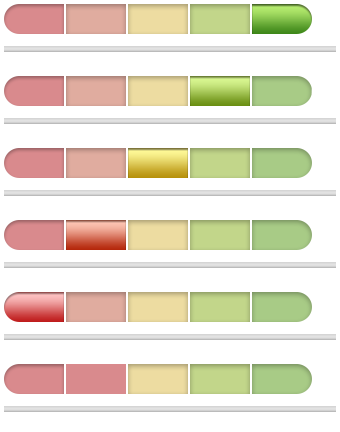
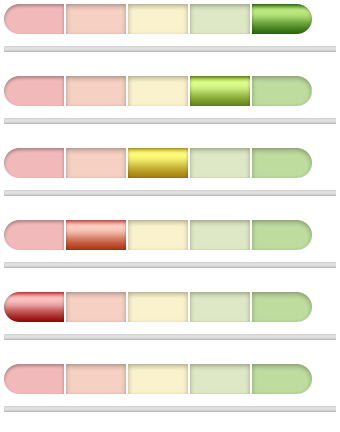
Updated appearance of rating bars: new image + dynamic hover

diff --git a/ratingwindow2.js b/ratingwindow2.js
@@ -311,6 +311,8 @@ $.extend(wot, { ratingwindow: {
 				var position = 100 * (wot.ratingwindow.slider_shift + e.clientX - slider.offset().left) /
                     wot.ratingwindow.sliderwidth;
 
+                if (e.type == "mouseleave") position = noopinion_threshold + 1;
+
                 /* sanitize the rating value */
                 if (position < 0) {
                     position = 0;
@@ -1144,14 +1146,15 @@ $.extend(wot, { ratingwindow: {
             $(".wot-rating-stack").bind({
                 mousedown: _this.rate_control.on_mousedown,
                 mouseup: _this.rate_control.on_mouseup,
-                mousemove: _this.rate_control.on_mousemove
+                mousemove: _this.rate_control.on_mousemove,
+                mouseleave: _this.rate_control.on_mousemove
             });
         },
 
         on_mousemove: function (e) {
             var _rw = wot.ratingwindow;
 
-            if (_rw.state.down == -1) return;
+//            if (_rw.state.down == -1) return;
             var c = $(this).attr("component");
             var t = _rw.getrating(e, this);
 
@@ -1254,7 +1257,7 @@ $.extend(wot, { ratingwindow: {
                 } else if (state.name != null && state.t >= 0) {
                     /* temporary indicator position */
                     rep = wot.getlevel(wot.reputationlevels, state.t).name;
-                    elems.indicator.css("left", (state.t * _rw.sliderwidth / 100).toFixed() + "px");
+//                    elems.indicator.css("left", (state.t * _rw.sliderwidth / 100).toFixed() + "px");
                     elems.stack.removeClass("testimony").addClass("hover");
 
                 } else {
@@ -1267,8 +1270,10 @@ $.extend(wot, { ratingwindow: {
 
                 if (rep) {
                     elems.stack.attr("r", rep);
+                    if (state.down != -1) {
                     elems.indicator.attr("r", rep);
                     elems.data.attr("r", rep);
+                }
                 }
 
                 var helptext = wot.get_level_label(item.name, rep, true);

diff --git a/skin/ratingwindow2.css b/skin/ratingwindow2.css
@@ -751,24 +751,24 @@ body {
     cursor: default;
 }
 
-.wot-rating-stack.testimony[r="r1"] .wot-rating-slider {
+.wot-rating-stack[r="r1"] .wot-rating-slider {
     background-position: 0 -144px;
 }
 
-.wot-rating-stack.testimony[r="r2"] .wot-rating-slider {
+.wot-rating-stack[r="r2"] .wot-rating-slider {
     background-position: 0 -108px;
 }
 
-.wot-rating-stack.testimony[r="r3"] .wot-rating-slider {
+.wot-rating-stack[r="r3"] .wot-rating-slider {
     background-position: 0 -72px;
 }
 
-.wot-rating-stack.testimony[r="r4"] .wot-rating-slider {
+.wot-rating-stack[r="r4"] .wot-rating-slider {
     background-position: 0 -36px;
 }
 
-.wot-rating-stack.testimony[r="r5"] .wot-rating-slider {
-    background-position: 0 0px;
+.wot-rating-stack[r="r5"] .wot-rating-slider {
+    background-position: 0 0;
 }
 
 /*.wot-rating-stack:hover .wot-rating-slider*/
